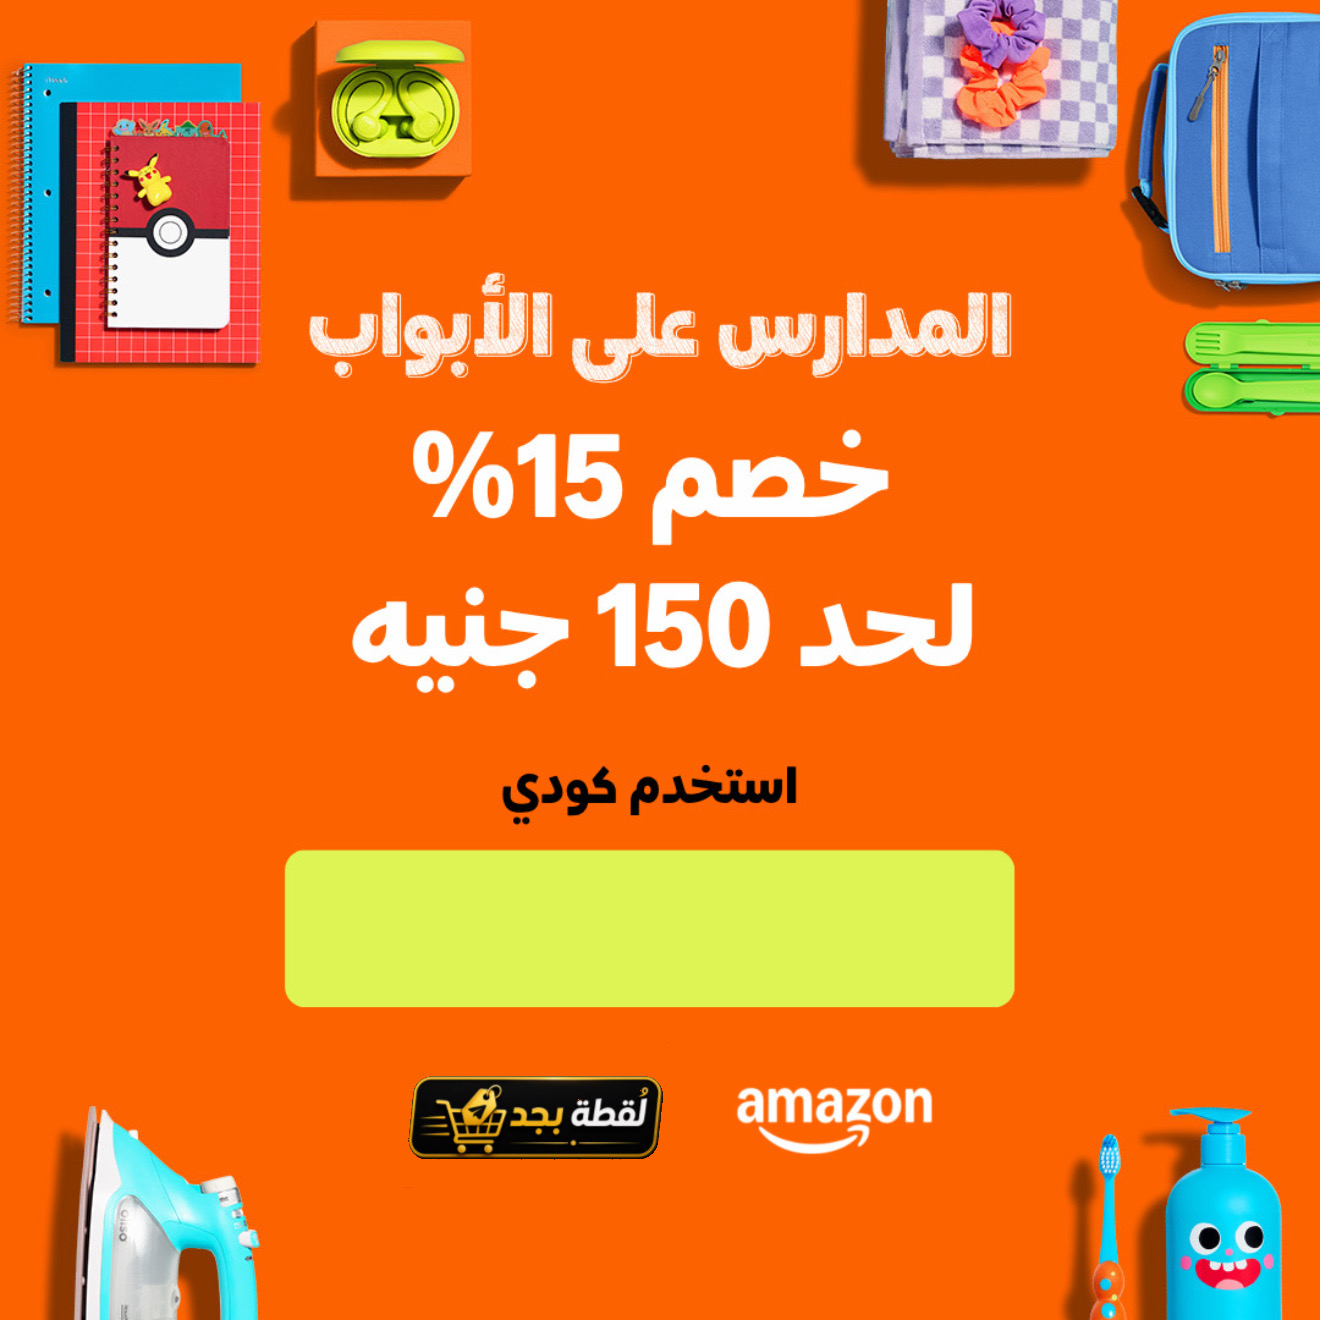
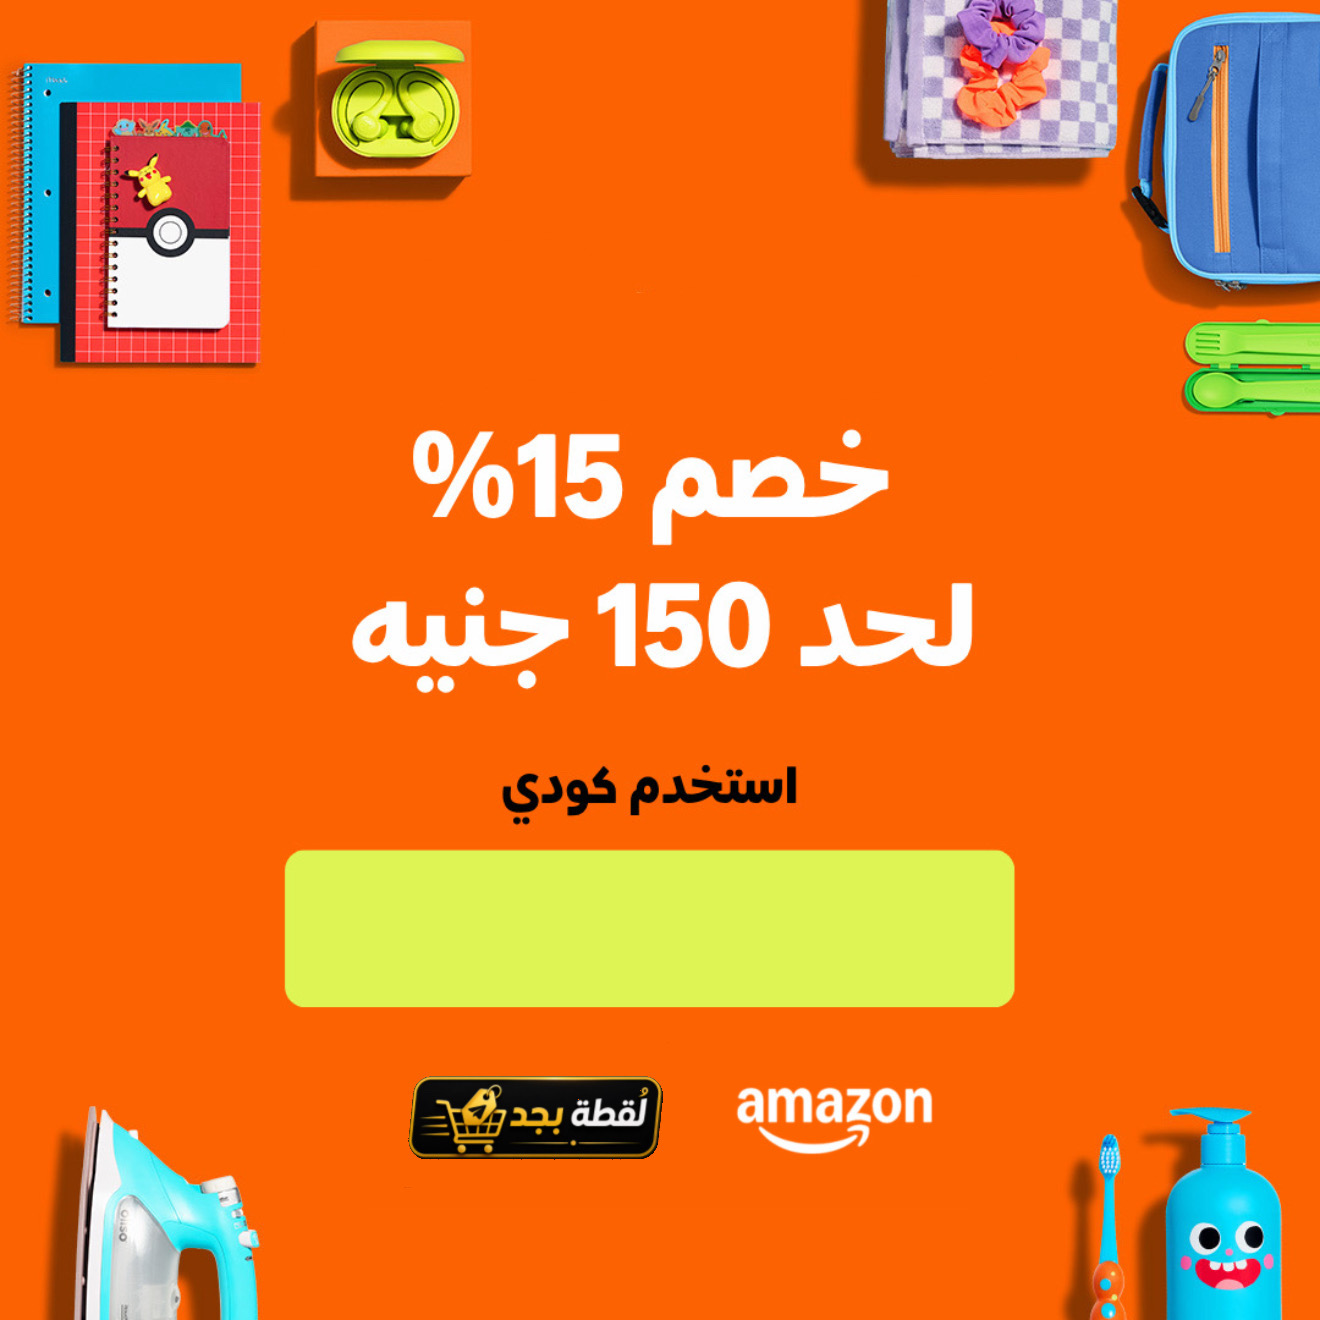
Add files via upload

Changed region(s): [[0.2174, 0.1864, 0.7765, 0.3106]]

diff --git a/image_processor.py b/image_processor.py
@@ -5,7 +5,7 @@ from typing import NamedTuple
 
 import arabic_reshaper
 from bidi.algorithm import get_display
-from PIL import Image, ImageDraw, ImageFont
+from PIL import Image, ImageDraw, ImageFilter, ImageFont
 
 from coupon_price import parse_price_number
 from PIL import features
@@ -44,21 +44,56 @@ _PRICE_CARD_RADIUS = 26
 _PRICE_CARD_INNER_RESERVE = 90
 _PRICE_CARD_WIDTH_BOOST = 1.12
 _PRICE_NUM_CURRENCY_GAP = 11
-_DISCOUNT_BADGE_FONT = int(48 * _FONT_SCALE)
-_DISCOUNT_BADGE_PAD_X = 30
-_DISCOUNT_BADGE_PAD_Y = 16
-_DISCOUNT_BADGE_RADIUS = 20
-_AMAZON_YELLOW = (255, 216, 20, 255)
-_AMAZON_YELLOW_BORDER = (235, 195, 10, 255)
-_GRAY_TEXT = (86, 89, 89, 255)
-_LABEL_GRAY = (86, 89, 89, 255)
-_BLACK_TEXT = (15, 17, 17, 255)
+# -- Discount badge: enlarged for premium prominence --
+_DISCOUNT_BADGE_FONT = int(58 * _FONT_SCALE)
+_DISCOUNT_BADGE_PAD_X = 36
+_DISCOUNT_BADGE_PAD_Y = 20
+_DISCOUNT_BADGE_RADIUS = 24
+
+# ─── Premium Black + Gold Theme ────────────────────────────────────
+# Canvas background: warm off-white instead of pure white
+_CANVAS_BG = (252, 251, 249, 255)
+# Dark info panel gradient
+_PANEL_DARK_TOP = (20, 22, 28)
+_PANEL_DARK_BOTTOM = (32, 35, 42)
+_PANEL_CORNER_RADIUS = 22
+# Gold price card
+_GOLD_TOP = (255, 220, 60, 255)
+_GOLD_BOTTOM = (235, 185, 15, 255)
+_GOLD_BORDER = (210, 170, 10, 255)
+_GOLD_HIGHLIGHT = (255, 240, 140, 80)   # subtle inner highlight
+_PRICE_SHADOW_ALPHA = 45                # stronger drop shadow
+# Title on dark panel: white
+_TITLE_ON_DARK = (255, 255, 255, 255)
+# Old price on dark panel: warm light gray
+_OLD_PRICE_ON_DARK = (195, 195, 200, 255)
+_OLD_PRICE_STRIKE_COLOR = (220, 60, 60, 255)   # red strikethrough
+# Price card internal text
+_PRICE_LABEL_ON_GOLD = (60, 50, 5, 255)        # dark brown on gold
+_PRICE_NUM_ON_GOLD = (15, 15, 15, 255)          # near-black on gold
+# Discount badge: keep red but with glow
 _DISCOUNT_RED = (204, 12, 57, 255)
+_DISCOUNT_GLOW = (204, 12, 57, 50)              # outer glow
+# Prime badge
 _PRIME_BLUE_LIGHT = (0, 168, 225, 255)
 _PRIME_BADGE_FONT = int(32 * _FONT_SCALE)
 _PRIME_BADGE_PAD_X = 22
 _PRIME_BADGE_PAD_Y = 10
 _PRIME_BADGE_RADIUS = 16
+# Product image area
+_PRODUCT_SHADOW_BLUR = 10
+_PRODUCT_SHADOW_ALPHA = 30
+_PRODUCT_BG_EDGE = (245, 245, 248, 255)
+# Seller badge on dark panel
+_SELLER_AMAZON_FILL = (30, 50, 75, 255)
+_SELLER_AMAZON_TEXT = (160, 210, 255, 255)
+_SELLER_AMAZON_BORDER = (60, 100, 150, 255)
+_SELLER_RESALE_FILL = (30, 55, 35, 255)
+_SELLER_RESALE_TEXT = (140, 220, 150, 255)
+_SELLER_RESALE_COND = (100, 190, 120, 255)
+_SELLER_RESALE_BORDER = (60, 130, 70, 255)
+# ────────────────────────────────────────────────────────────────────
+
 _WHITE_THRESHOLD = 248
 _TRANSPARENT_ALPHA = 12
 _CORNER_BADGE_MARGIN = 32
@@ -305,6 +340,67 @@ def _compute_product_position(
     return rel_x, rel_y
 
 
+def _draw_dark_info_panel_bg(
+    canvas: Image.Image,
+    left_w: int,
+    slot_height: int,
+) -> None:
+    """Draw a dark vertical-gradient rounded rectangle as the info panel backdrop."""
+    margin = 8
+    x1, y1 = margin, margin
+    x2, y2 = left_w - margin // 2, slot_height - margin
+    height = y2 - y1
+
+    # Build vertical gradient line-by-line
+    panel = Image.new("RGBA", (x2 - x1, height), (0, 0, 0, 0))
+    draw_p = ImageDraw.Draw(panel)
+    for row in range(height):
+        t = row / max(1, height - 1)
+        r = int(_PANEL_DARK_TOP[0] + (_PANEL_DARK_BOTTOM[0] - _PANEL_DARK_TOP[0]) * t)
+        g = int(_PANEL_DARK_TOP[1] + (_PANEL_DARK_BOTTOM[1] - _PANEL_DARK_TOP[1]) * t)
+        b = int(_PANEL_DARK_TOP[2] + (_PANEL_DARK_BOTTOM[2] - _PANEL_DARK_TOP[2]) * t)
+        draw_p.line([(0, row), (x2 - x1, row)], fill=(r, g, b, 255))
+
+    # Apply rounded-corner mask
+    mask = Image.new("L", panel.size, 0)
+    mask_draw = ImageDraw.Draw(mask)
+    mask_draw.rounded_rectangle(
+        (0, 0, panel.width - 1, panel.height - 1),
+        radius=_PANEL_CORNER_RADIUS,
+        fill=255,
+    )
+    panel.putalpha(mask)
+    canvas.paste(panel, (x1, y1), panel)
+
+
+def _paste_with_shadow(
+    canvas: Image.Image,
+    overlay: Image.Image,
+    position: tuple[int, int],
+) -> None:
+    """Paste an image onto canvas with a subtle drop shadow underneath."""
+    ox, oy = position
+    w, h = overlay.size
+
+    # Create shadow from the overlay alpha channel
+    shadow_offset = 4
+    try:
+        shadow_layer = Image.new("RGBA", canvas.size, (0, 0, 0, 0))
+        # Solid dark fill shaped by the overlay
+        shadow_fill = Image.new("RGBA", (w, h), (0, 0, 0, _PRODUCT_SHADOW_ALPHA))
+        shadow_layer.paste(shadow_fill, (ox + shadow_offset, oy + shadow_offset), overlay)
+        shadow_layer = shadow_layer.filter(ImageFilter.GaussianBlur(radius=_PRODUCT_SHADOW_BLUR))
+        canvas.paste(Image.alpha_composite(
+            Image.new("RGBA", canvas.size, (0, 0, 0, 0)),
+            shadow_layer,
+        ), (0, 0), shadow_layer)
+    except Exception:
+        pass  # Graceful fallback: skip shadow if anything fails
+
+    # Paste the actual product image
+    canvas.paste(overlay, position)
+
+
 def apply_frame_creators_product(
     image_path: str,
     output_path: str,
@@ -328,7 +424,8 @@ def apply_frame_creators_product(
     frame = Image.open(frame_path).convert("RGBA")
     geo = get_frame_geometry(frame)
 
-    canvas = Image.new("RGBA", (geo.slot_width, geo.slot_height), (255, 255, 255, 255))
+    # Warm off-white canvas instead of pure white
+    canvas = Image.new("RGBA", (geo.slot_width, geo.slot_height), _CANVAS_BG)
 
     probe = ImageDraw.Draw(canvas)
     left_w = _compute_left_panel_width(
@@ -342,6 +439,10 @@ def apply_frame_creators_product(
     inner_w = right_w - 2 * _IMG_PANEL_PAD
     inner_h = geo.slot_height - 2 * _IMG_PANEL_PAD
 
+    # ── Dark gradient info panel background ──
+    _draw_dark_info_panel_bg(canvas, left_w, geo.slot_height)
+
+    # ── Product image with shadow ──
     image = _neutralize_transparent_rgb(_trim_product_borders(Image.open(image_path)))
     trimmed_w, trimmed_h = image.size
     aspect = trimmed_w / trimmed_h if trimmed_h else 1.0
@@ -352,7 +453,9 @@ def apply_frame_creators_product(
 
     rel_x, rel_y = _compute_product_position(inner_w, inner_h, scaled_w, scaled_h, aspect)
     product_area = _composite_on_white((inner_w, inner_h), image_scaled, (rel_x, rel_y))
-    canvas.paste(product_area, (left_w + _IMG_PANEL_PAD, _IMG_PANEL_PAD))
+
+    # Subtle product drop shadow for depth
+    _paste_with_shadow(canvas, product_area, (left_w + _IMG_PANEL_PAD, _IMG_PANEL_PAD))
 
     panel_width = left_w - 2 * _INFO_PAD
     layout_scale = _panel_content_scale(
@@ -984,10 +1087,10 @@ def draw_seller_badge(
     if is_resale:
         header_text = "Amazon Resale"
         cond_text = _format_resale_condition_display(seller_condition)
-        badge_fill = (240, 248, 242, 255)
-        text_color = (20, 75, 30, 255)
-        cond_color = (35, 115, 45, 255)
-        border_color = (140, 195, 145, 255)
+        badge_fill = _SELLER_RESALE_FILL
+        text_color = _SELLER_RESALE_TEXT
+        cond_color = _SELLER_RESALE_COND
+        border_color = _SELLER_RESALE_BORDER
         font_size = _scaled(int(_TITLE_FONT_MAX * 0.51), scale)
         pad_x = _scaled(26, scale)
         pad_y = _scaled(12, scale)
@@ -996,10 +1099,10 @@ def draw_seller_badge(
     else:
         header_text = "البائع: Amazon.eg"
         cond_text = None
-        badge_fill = (242, 246, 252, 255)
-        text_color = (0, 69, 124, 255)
+        badge_fill = _SELLER_AMAZON_FILL
+        text_color = _SELLER_AMAZON_TEXT
         cond_color = None
-        border_color = (180, 205, 235, 255)
+        border_color = _SELLER_AMAZON_BORDER
         font_size = _scaled(int(_TITLE_FONT_MAX * 0.44), scale)
         pad_x = _scaled(22, scale)
         pad_y = _scaled(10, scale)
@@ -1245,7 +1348,7 @@ def draw_title(
             current_y,
             line,
             title_font,
-            _BLACK_TEXT,
+            _TITLE_ON_DARK,
             panel_x,
             panel_width,
             _contains_arabic(line),
@@ -1304,9 +1407,9 @@ def draw_old_price(
         number_x = label_x + label_w + space_w
         currency_x = number_x + number_w + space_w
 
-    _draw_text(draw, (label_x, y), label, font, _GRAY_TEXT)
-    _draw_text(draw, (number_x, y), number_text, font, _GRAY_TEXT)
-    _draw_text(draw, (currency_x, y), currency_text, font, _GRAY_TEXT)
+    _draw_text(draw, (label_x, y), label, font, _OLD_PRICE_ON_DARK)
+    _draw_text(draw, (number_x, y), number_text, font, _OLD_PRICE_ON_DARK)
+    _draw_text(draw, (currency_x, y), currency_text, font, _OLD_PRICE_ON_DARK)
 
     # Exact strikethrough alignment through vertical center of digits
     num_disp = shape_text(number_text)
@@ -1324,7 +1427,7 @@ def draw_old_price(
             number_x + number_w + strike_pad,
             strike_y,
         ),
-        fill=_GRAY_TEXT,
+        fill=_OLD_PRICE_STRIKE_COLOR,
         width=max(2, _scaled(_OLD_PRICE_STRIKE_WIDTH, scale)),
     )
 
@@ -1351,22 +1454,50 @@ def draw_price_card(
     box_y1 = y
     box_y2 = box_y1 + layout.box_h
 
-    # Soft ambient drop shadow for subtle depth
-    shadow_y = max(2, _scaled(4, scale))
+    # Stronger premium drop shadow
+    shadow_y = max(3, _scaled(6, scale))
     draw.rounded_rectangle(
-        (box_x1 + 1, box_y1 + shadow_y, box_x2 + 1, box_y2 + shadow_y),
+        (box_x1 + 2, box_y1 + shadow_y, box_x2 + 2, box_y2 + shadow_y),
         radius=layout.radius,
-        fill=(0, 0, 0, 18),
+        fill=(0, 0, 0, _PRICE_SHADOW_ALPHA),
     )
 
-    # Main yellow card with crisp border
+    # Gold gradient card — draw as a filled base then overlay gradient
     draw.rounded_rectangle(
         (box_x1, box_y1, box_x2, box_y2),
         radius=layout.radius,
-        fill=_AMAZON_YELLOW,
-        outline=_AMAZON_YELLOW_BORDER,
-        width=max(1, _scaled(1, scale)),
+        fill=_GOLD_TOP,
+        outline=_GOLD_BORDER,
+        width=max(1, _scaled(2, scale)),
     )
+    # Overlay a subtle bottom-to-darker gradient inside the card
+    card_h = box_y2 - box_y1
+    for row_offset in range(card_h):
+        t = row_offset / max(1, card_h - 1)
+        row_y = box_y1 + row_offset
+        # Blend from GOLD_TOP to GOLD_BOTTOM
+        r = int(_GOLD_TOP[0] + (_GOLD_BOTTOM[0] - _GOLD_TOP[0]) * t)
+        g = int(_GOLD_TOP[1] + (_GOLD_BOTTOM[1] - _GOLD_TOP[1]) * t)
+        b = int(_GOLD_TOP[2] + (_GOLD_BOTTOM[2] - _GOLD_TOP[2]) * t)
+        draw.line(
+            [(box_x1 + layout.radius, row_y), (box_x2 - layout.radius, row_y)],
+            fill=(r, g, b, 255),
+        )
+    # Re-draw outline after gradient fill to keep crisp edges
+    draw.rounded_rectangle(
+        (box_x1, box_y1, box_x2, box_y2),
+        radius=layout.radius,
+        fill=None,
+        outline=_GOLD_BORDER,
+        width=max(1, _scaled(2, scale)),
+    )
+
+    # Subtle highlight line at top edge
+    highlight_y = box_y1 + max(2, _scaled(3, scale))
+    hl_x1 = box_x1 + layout.radius + 4
+    hl_x2 = box_x2 - layout.radius - 4
+    if hl_x2 > hl_x1:
+        draw.line([(hl_x1, highlight_y), (hl_x2, highlight_y)], fill=_GOLD_HIGHLIGHT, width=2)
 
     inner_h = layout.box_h - layout.pad_y * 2
     content_offset = max(0, (inner_h - layout.content_h) // 2)
@@ -1379,7 +1510,7 @@ def draw_price_card(
         (label_x, base_y + layout.label_draw_y),
         _PRICE_LABEL,
         layout.label_font,
-        _LABEL_GRAY,
+        _PRICE_LABEL_ON_GOLD,
     )
 
     num_x = inner_x - layout.num_w if rtl else inner_x
@@ -1388,7 +1519,7 @@ def draw_price_card(
         (num_x, base_y + layout.num_draw_y),
         layout.number,
         layout.num_font,
-        _BLACK_TEXT,
+        _PRICE_NUM_ON_GOLD,
     )
 
     curr_x = inner_x - layout.curr_w if rtl else inner_x
@@ -1397,7 +1528,7 @@ def draw_price_card(
         (curr_x, base_y + layout.curr_draw_y),
         layout.currency,
         layout.curr_font,
-        _BLACK_TEXT,
+        _PRICE_NUM_ON_GOLD,
     )
 
     return (box_y2, (box_x1, box_y1, layout.box_w, layout.box_h))
@@ -1421,9 +1552,29 @@ def draw_discount_badge(
     pad_x = _scaled(_DISCOUNT_BADGE_PAD_X, scale)
     pad_y = _scaled(_DISCOUNT_BADGE_PAD_Y, scale)
     box_w = text_w + pad_x * 2
+    box_h = text_h + pad_y * 2
     badge_x = canvas.width - _CORNER_BADGE_MARGIN
     x1 = badge_x - box_w
     y1 = _CORNER_BADGE_MARGIN
+
+    # Outer glow effect for premium visual punch
+    glow_expand = _scaled(6, scale)
+    try:
+        glow_layer = Image.new("RGBA", canvas.size, (0, 0, 0, 0))
+        glow_draw = ImageDraw.Draw(glow_layer)
+        glow_draw.rounded_rectangle(
+            (x1 - glow_expand, y1 - glow_expand,
+             x1 + box_w + glow_expand, y1 + box_h + glow_expand),
+            radius=_scaled(_DISCOUNT_BADGE_RADIUS, scale) + glow_expand,
+            fill=_DISCOUNT_GLOW,
+        )
+        glow_layer = glow_layer.filter(ImageFilter.GaussianBlur(radius=_scaled(8, scale)))
+        canvas.paste(Image.alpha_composite(
+            Image.new("RGBA", canvas.size, (0, 0, 0, 0)), glow_layer,
+        ), (0, 0), glow_layer)
+    except Exception:
+        pass  # Graceful fallback
+
     _draw_pill_badge(
         canvas,
         discount_text,
